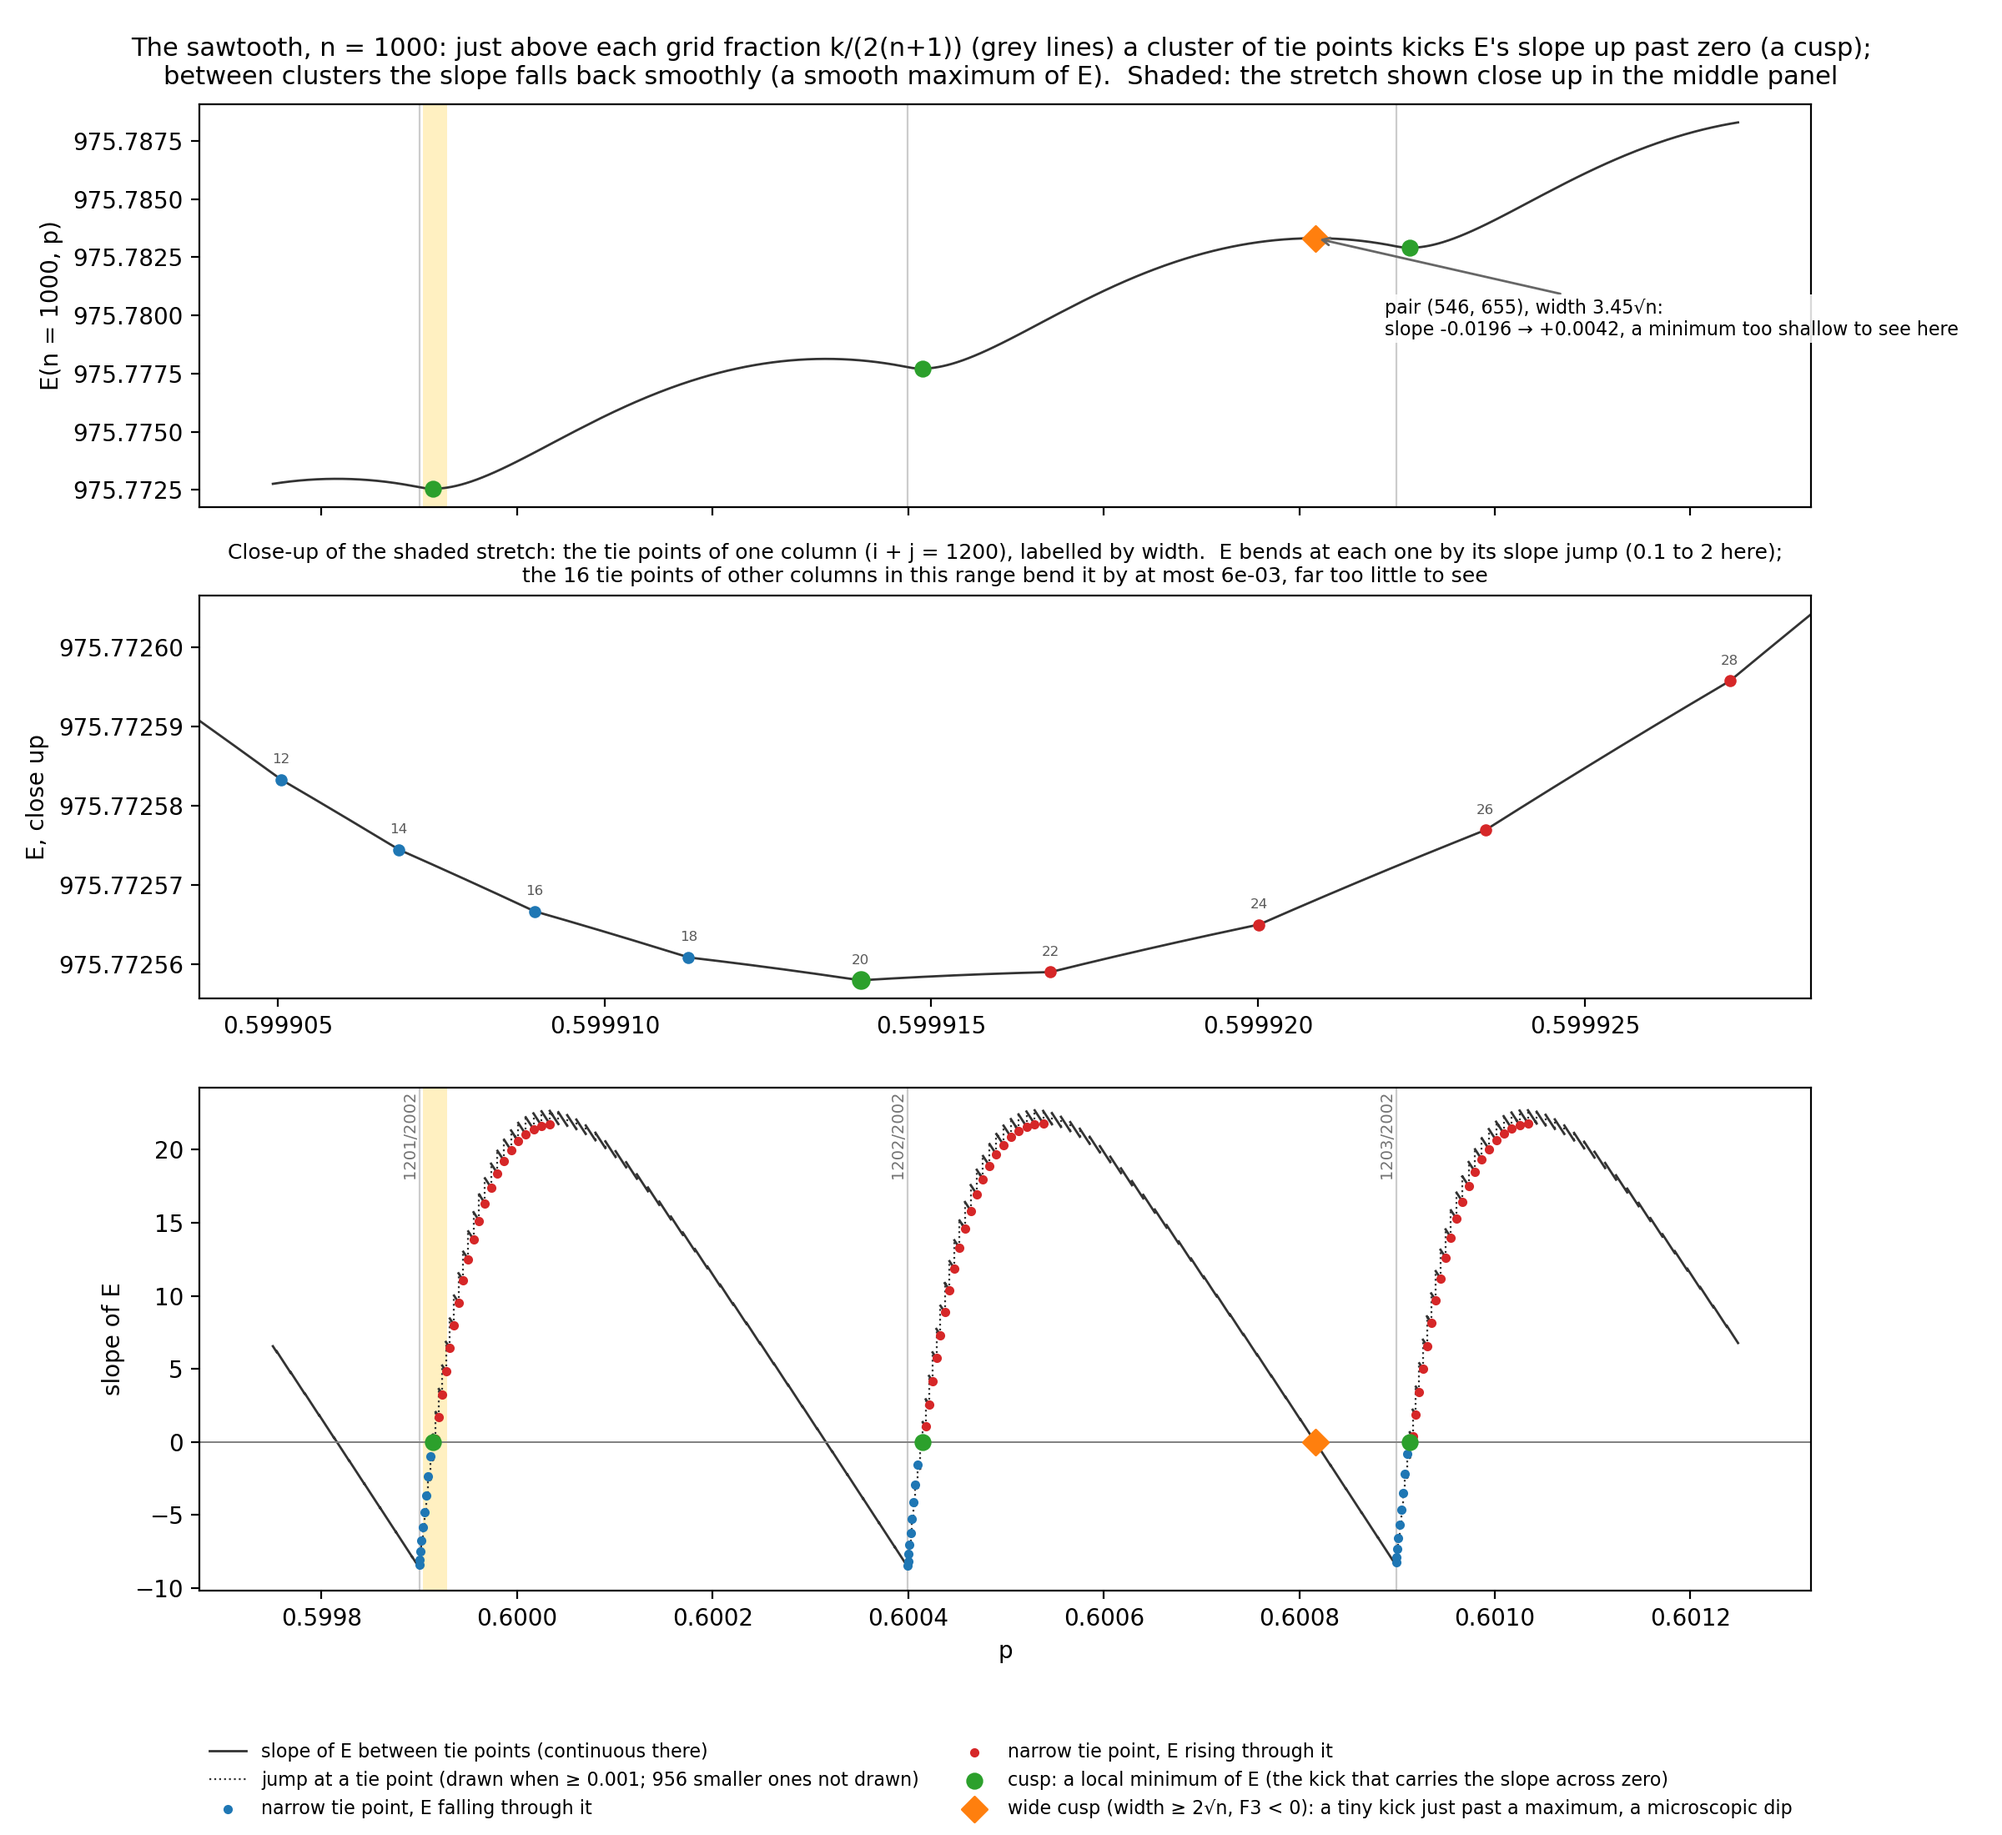
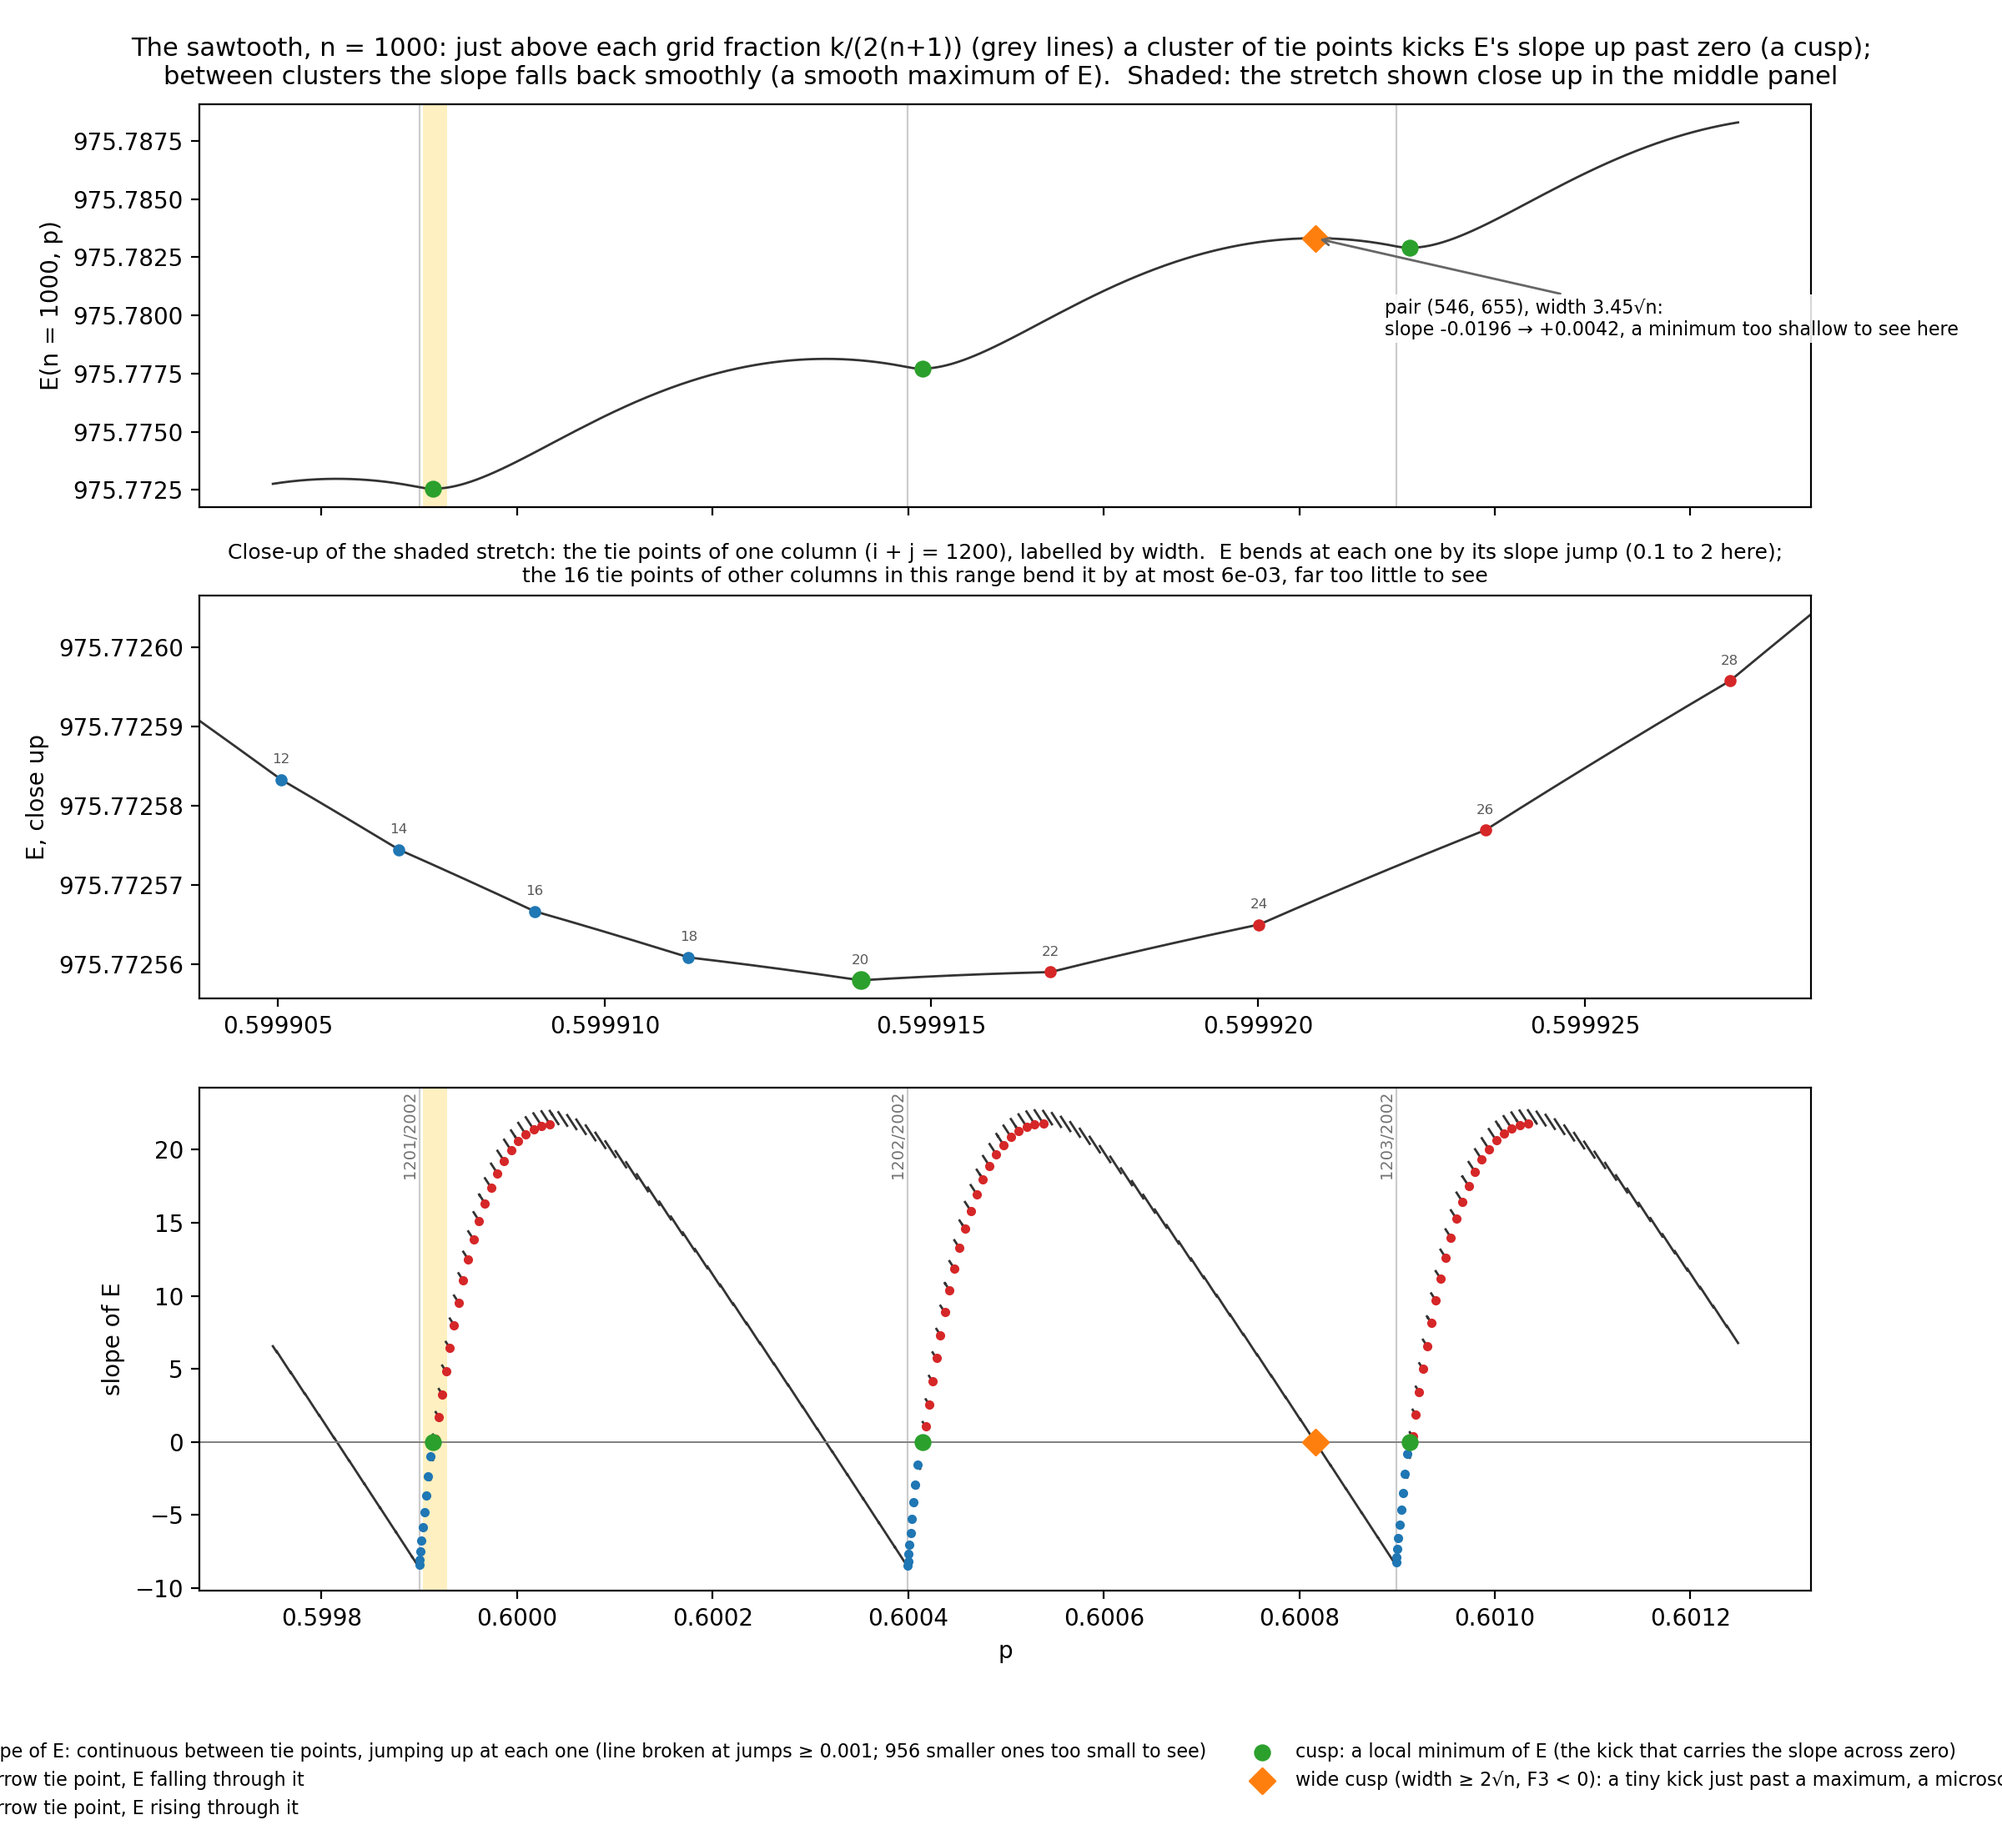
sawtooth: shorter legend labels so the legend fits

Changed region(s): [[0.4688, 0.9273, 0.9062, 0.9891], [0.0, 0.9273, 0.3125, 0.9891], [0.3125, 0.9273, 0.3438, 0.9582]]

diff --git a/obd_explorer/sawtooth.py b/obd_explorer/sawtooth.py
@@ -91,7 +91,7 @@ def export_sawtooth(cfg: SawtoothConfig, verbose: bool = False) -> None:
     a1.scatter(tp[tc & narrow], tE[tc & narrow], s=40, color="#2ca02c", zorder=3,
                label="cusp: a local minimum of E (the kick that carries the slope across zero)")
     a1.scatter(tp[wide], tE[wide], s=60, color="#ff7f0e", marker="D", zorder=3,
-               label="wide cusp (width ≥ 2√n, F3 < 0): a tiny kick just past a maximum, a microscopic dip")
+               label="wide cusp (width ≥ 2√n, F3 < 0): a tiny kick just past a maximum")
     for q in np.flatnonzero(wide):
         a1.annotate(f"pair ({ti[q]}, {tj[q]}), width {(tj[q] - ti[q]) / np.sqrt(n):.2f}√n:\n"
                     f"slope {tsl[q]:+.4f} → {tsr[q]:+.4f}, a minimum too shallow to see here",
@@ -123,8 +123,7 @@ def export_sawtooth(cfg: SawtoothConfig, verbose: bool = False) -> None:
     seg = np.searchsorted(T, p)
     cut = np.flatnonzero(np.diff(seg) != 0) + 1
     a2.plot(np.insert(p, cut, np.nan), np.insert(sl, cut, np.nan), color="0.2", lw=1,
-            label=f"slope of E: continuous between tie points, jumping up at each one (line broken at jumps ≥ "
-                  f"{cfg.jump_min:g}; {int((~big).sum())} smaller ones too small to see)")
+            label=f"slope of E, broken where it jumps (jumps ≥ {cfg.jump_min:g}; {int((~big).sum())} smaller ones are invisible)")
     a2.scatter(tp[fall], tsr[fall], s=9, color="#1f77b4", zorder=3, label="narrow tie point, E falling through it")
     a2.scatter(tp[rise], tsl[rise], s=9, color="#d62728", zorder=3, label="narrow tie point, E rising through it")
     a2.scatter(tp[tc & narrow], np.zeros((tc & narrow).sum()), s=40, color="#2ca02c", zorder=4)
